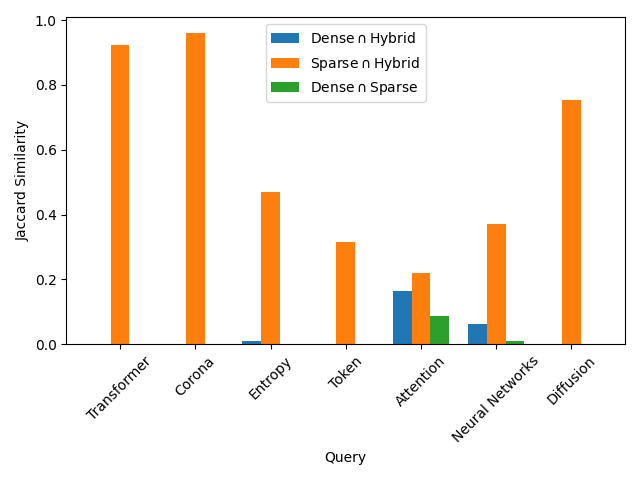
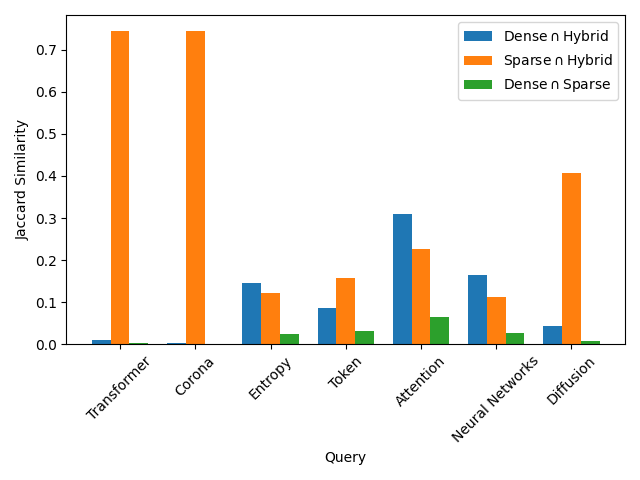
create_benchmarks: bump ablation search limit to 500

diff --git a/src/create_benchmarks.py b/src/create_benchmarks.py
@@ -176,7 +176,7 @@ def benchmark_ablation():
         "Neural Networks",
         "Diffusion"
     ]
-    
+    search_limit = 500
     summary_results = []
     detailed_results = []
     
@@ -186,13 +186,13 @@ def benchmark_ablation():
         logger.info(f"Processing query: {query}")
         
         # Dense
-        df_dense = pipeline.search.search_papers(query, limit=50, alpha=1.0)
+        df_dense = pipeline.search.search_papers(query, limit=search_limit, alpha=1.0)
         ids_dense = df_dense['arxiv_id'].tolist() if not df_dense.empty else []
         # Sparse
-        df_sparse = pipeline.search.search_papers(query, limit=50, alpha=0.0)
+        df_sparse = pipeline.search.search_papers(query, limit=search_limit, alpha=0.0)
         ids_sparse = df_sparse['arxiv_id'].tolist() if not df_sparse.empty else []
         # Hybrid
-        df_hybrid = pipeline.search.search_papers(query, limit=50, alpha=0.5)
+        df_hybrid = pipeline.search.search_papers(query, limit=search_limit, alpha=0.5)
         ids_hybrid = df_hybrid['arxiv_id'].tolist() if not df_hybrid.empty else []
 
         # calculate overlaps
@@ -208,7 +208,7 @@ def benchmark_ablation():
             "n_results_dense": len(ids_dense),
             "n_results_sparse": len(ids_sparse),
             "n_results_hybrid": len(ids_hybrid),
-            "param_limit": 50,
+            "param_limit": search_limit,
             "param_alpha_dense": 1.0,
             "param_alpha_sparse": 0.0,
             "param_alpha_hybrid": 0.5
